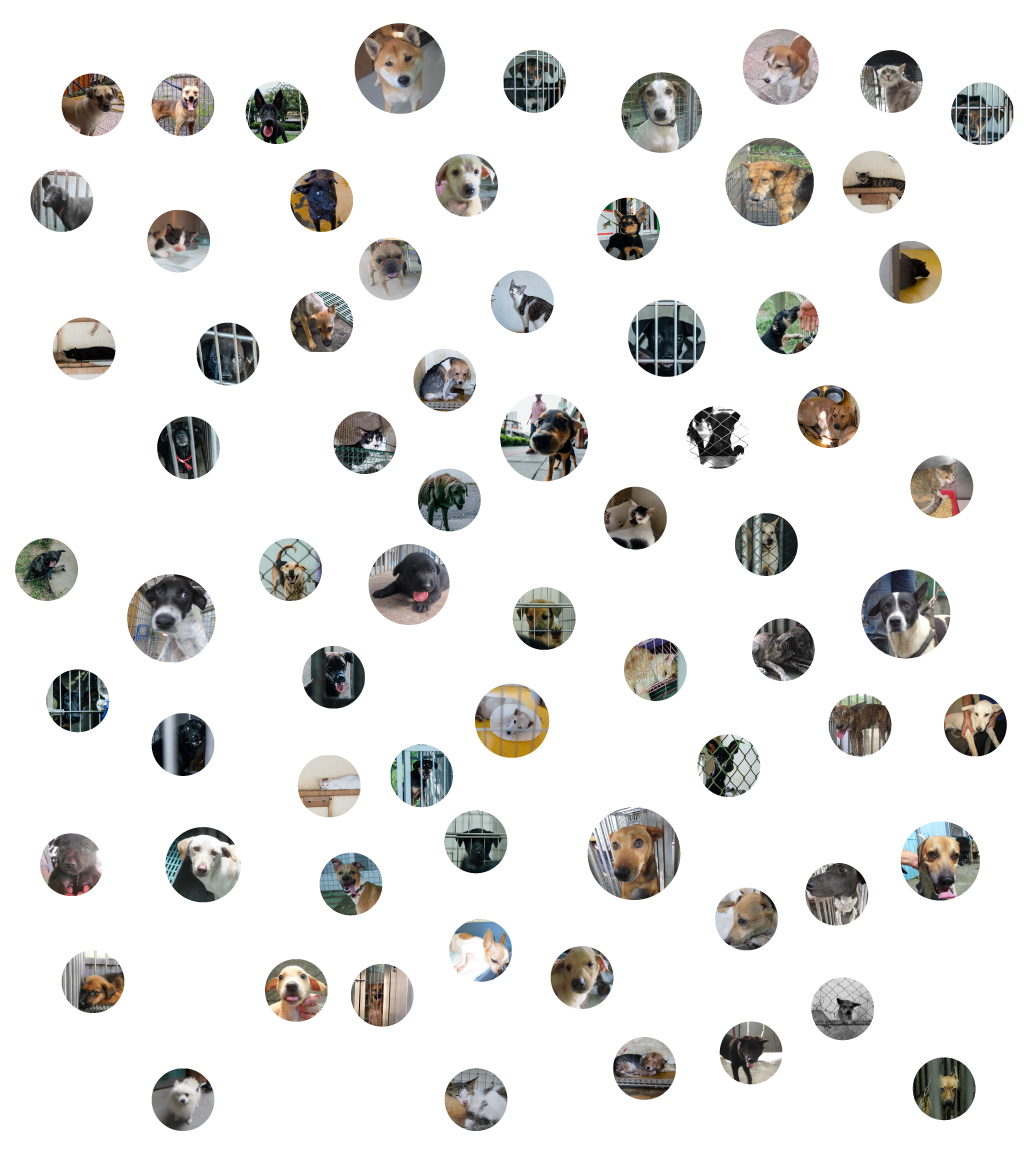
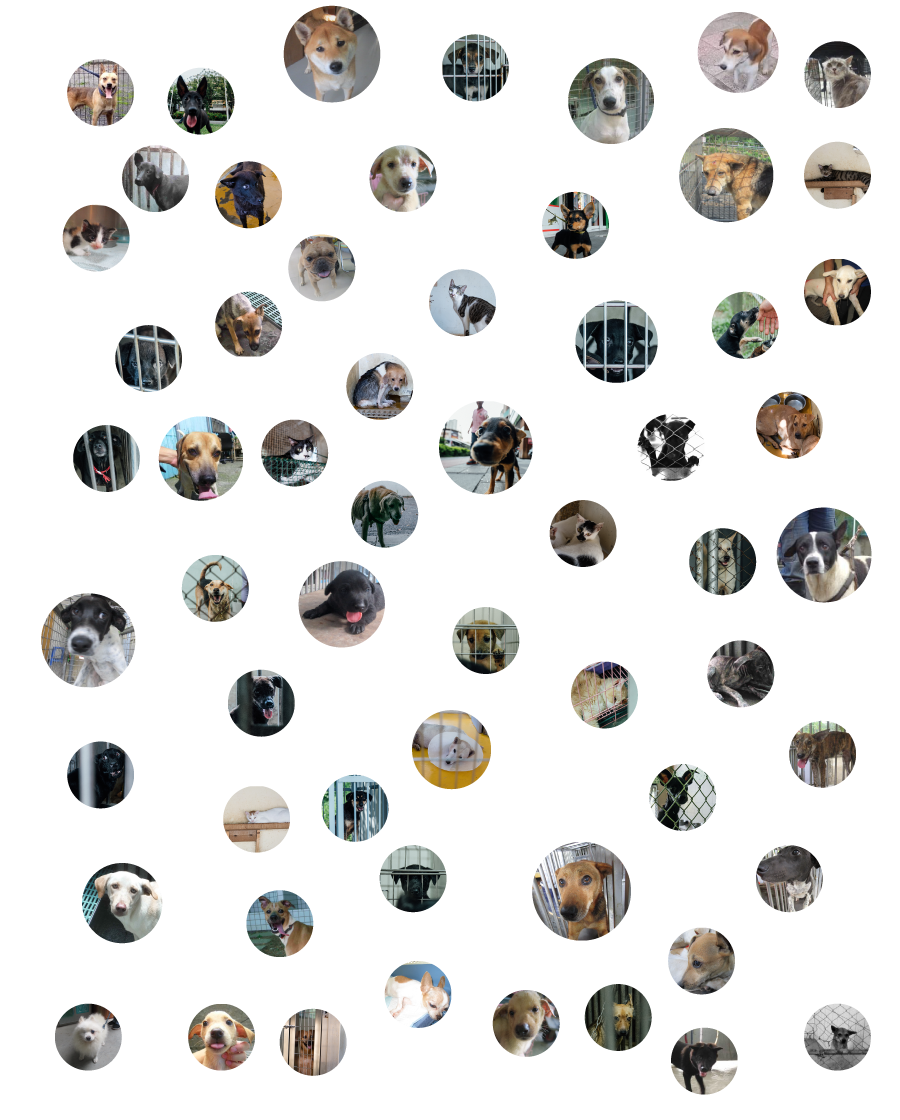
optimize mobile
optimize mobile

diff --git a/animal_protection/web_modules/layouts/Homepage/Opening/OpeningStardust.js b/animal_protection/web_modules/layouts/Homepage/Opening/OpeningStardust.js
@@ -1,4 +1,4 @@
-/* eslint-disable react/jsx-no-bind, react/jsx-no-literals, max-len, react/no-multi-comp, react/jsx-closing-bracket-location  */
+/* eslint-disable react/jsx-no-bind, react/jsx-no-literals, max-len, react/prop-types, react/no-multi-comp, react/jsx-closing-bracket-location  */
 
 import _ from "lodash"
 import React, { Component } from "react"
@@ -25,11 +25,13 @@ const MOBILE_WIDTH = 768
 
 const colors = [ styles["blue"], styles["pink"], styles["white"], styles["blue"], styles["white"] ]
 
-let DotsItems = () => {
+let DotsItems = (props) => {
+  const dotsCnt = props.isMobile ? 120 : 300
+  const cWidth = props.isMobile ? 600 : 800
   let dotsItems = []
-  for (let i=0; i<250; i++) {
+  for (let i=0; i<dotsCnt; i++) {
     dotsItems.push(<div key={ i } className={ classnames(styles["dot"], colors[i%4]) } 
-      style={ { top: (i*i*7%1100)/10+"%", left:(((i*i+7)*i%2100)-1100)/10+"%" } }
+      style={ { top: (i*i*7%1300)/10+"%", left:(((i*i+7)*i%cWidth)-cWidth/2)/10+"%" } }
                     ></div>)
   }
 
@@ -38,11 +40,13 @@ let DotsItems = () => {
   )
 }
 
-let OverlayDotsItems = () => {
+let OverlayDotsItems = (props) => {
+  const dotsCnt = props.isMobile ? 120 : 350
+  const cWidth = props.isMobile ? 800 : 1200
   let secondDotsItems = []
-  for (let i=0; i<250; i++) {
+  for (let i=0; i<dotsCnt; i++) {
     secondDotsItems.push(<div key={ i } className={ classnames(styles["dot"], colors[i%4]) } 
-      style={ { top: (i*i*3%1100)/10+"%", left:(((i+5)*i%2200)-1100)/10+"%" } }
+      style={ { top: (i*i*3%1200)/10+"%", left:(((i+5)*i%cWidth)-cWidth/2+10)/10+"%" } }
                     ></div>)
   }
 
@@ -122,20 +126,22 @@ export default class OpeningStardust extends Component {
     const rect = node.getBoundingClientRect()
     const { top, bottom } = rect
     const vpHeight = window.innerHeight
+    const frames = this.state.isMobile ? 12 : 120
 
     if (this.pItemHeight) {
-      if (bottom > vpHeight && bottom &&
+      if (bottom > vpHeight && bottom > 0 &&
                 top < (vpHeight / 2 - this.pItemHeight / 2)) {
         this.setState({ isIn: true, pinTopY: vpHeight / 2 })
       } 
       else if (bottom < vpHeight && bottom > 0 &&
                 top < (vpHeight / 2 - this.pItemHeight / 2)) {
-        const topY = Math.round(bottom - vpHeight / 2)
-        this.setState({ pinTopY: topY })
-        console.log("pinTopY: ", topY)
-        velocity(this.pinnedItem, {
-          top: topY,
-        }, 1)
+        const topY = Math.round((bottom - vpHeight / 2) * frames) / frames
+        if (this.state.pinTopY !== topY) {
+          this.setState({ pinTopY: topY })
+          velocity(this.pinnedItem, {
+            top: topY,
+          }, 1)
+        }
       } 
       else {
         this.setState({ isIn: false })
@@ -143,26 +149,30 @@ export default class OpeningStardust extends Component {
     }
 
     if (top < vpHeight / 2 && bottom > vpHeight / 2) {
-            // if user is viewing the content of the container
+      // if user is viewing the content of the container
+      const petTransY = this.state.isMobile ? 1600 : 2800
       let sRatio = Math.abs((top - vpHeight / 2) / (bottom - top))
-      sRatio = Math.round(sRatio * 100) / 100
-      this.setState({ scrollRatio: sRatio })
-      velocity(this.petImgs, {
-        translateY: "-" + Math.abs(sRatio * 3000) + "px",
-        translateZ: (300 - sRatio * 2000) + "px",
-        opacity: this._getRatio((1.6 - sRatio) * (1 - sRatio) * (1 - sRatio)),
-      }, 1)
-      velocity(this.dots, {
-        translateY: "-" + Math.abs(sRatio * 6200) + "px",
-        translateZ: (1600 - Math.abs(sRatio * 6100)) + "px",
-        opacity: this._getRatio(1.5 - sRatio),
-      }, 1)
-      velocity(this.secondDots, {
-        translateY: "-" + Math.abs(sRatio * 3800 - 600) + "px",
-        translateZ: (2300 - Math.abs(sRatio * 5700)) + "px",
-        opacity: this._getRatio(1.9 - sRatio),
-      }, 1)
-
+      sRatio = Math.round(sRatio * frames) / frames
+      if (this.state.scrollRatio !== sRatio) {
+        this.setState({ scrollRatio: sRatio })
+        velocity(this.petImgs, {
+          translateY: "-" + Math.abs(sRatio * petTransY) + "px",
+          translateZ: (300 - sRatio * 2200) + "px",
+          opacity: this._getRatio((1.6 - sRatio) * (1 - sRatio) * (1 - sRatio)),
+        }, 1)
+        if (this.state.isMobile) {
+          velocity(this.dots, {
+            translateY: "-" + Math.abs(sRatio * 7200) + "px",
+            translateZ: (1500 - Math.abs(sRatio * 6600)) + "px",
+            opacity: this._getRatio(1.5 - sRatio),
+          }, 1)
+        }
+        velocity(this.secondDots, {
+          translateY: "-" + Math.abs(sRatio * 4000 - 600) + "px",
+          translateZ: (2300 - Math.abs(sRatio * 5900)) + "px",
+          opacity: this._getRatio(1.9 - sRatio),
+        }, 1)
+      }
     } 
     else if (bottom < 0)
       this.setState({ scrollRatio: 1 })
@@ -175,39 +185,42 @@ export default class OpeningStardust extends Component {
 
     const centerClass = isIn ? commonStyles["fixedCenter"] : null
     const petBg = isMobile ? petMobile : petDesktop
-    console.log("rerender")
+    const fitDotsLayer = isMobile ? null : <div className={ styles["overlay-dots-container"] }
+      ref={ (ref) => this.dots = ref }
+            >
+              <DotsItems />
+            </div>
     
     return (
       <div className={ classnames(styles.container, 
         commonStyles["text-center"]) }
         ref={ (ref) => this.container = ref }
       >
-        <div className={ commonStyles["content-outer"] }>
-          <div 
-            className={ classnames(centerClass) }
-            ref={ (ref) => this.pinnedItem = ref }
-          >
-            <div className={ styles["dots-container"] }>
-              <div className={ styles["pet-container"] }
-                ref={ (ref) => this.petImgs = ref }
-              >
-                <img src={ petBg } />
-              </div>
-
-              <div className={ styles["overlay-dots-container"] }
-                ref={ (ref) => this.dots = ref }
-              >
-                <DotsItems />
-              </div>
-              <div className={ styles["overlay-dots-container"] }
-                ref={ (ref) => this.secondDots = ref }
-              >
-                <OverlayDotsItems />
-              </div>
+        
+        <div 
+          className={ classnames(centerClass, styles["outer"]) }
+          ref={ (ref) => this.pinnedItem = ref }
+        >
+          <div className={ styles["dots-container"] }>
+            <div className={ styles["pet-container"] }
+              ref={ (ref) => this.petImgs = ref }
+            >
+              <img src={ petBg } />
             </div>
-            <div className={ commonStyles["content-outer"] }></div>
+
+            { fitDotsLayer }
             
+            <div className={ styles["overlay-dots-container"] }
+              ref={ (ref) => this.secondDots = ref }
+            >
+              <OverlayDotsItems isMobile={ isMobile } />
+            </div>
           </div>
+          <div className={ commonStyles["content-outer"] }></div>
+          
+        </div>
+
+        <div className={ commonStyles["content-outer"] }>
 
           <div className={ commonStyles["content-outer"] }>
             <p className={ styles["des-text"] }>還有更多的狗狗與憂憂面對相似的命運</p>

diff --git a/animal_protection/web_modules/layouts/Homepage/Opening/OpeningStardust.scss b/animal_protection/web_modules/layouts/Homepage/Opening/OpeningStardust.scss
@@ -8,17 +8,20 @@
   overflow: hidden;
 }
 
+.outer {
+  width: 100%;
+}
+
 .pet-container {
   position: absolute;
-  width: 300%;
-  margin-left: -125%;
-  margin-top: 15vh;
-  transform: translateZ(300px);
+  width: 150%;
+  margin-left: -25%;
+  padding-top: 15vh;
 
-  @media (max-width: $width-sm) {
-    width: 200%;
-    margin-left: -50%;
-  }
+  // @media (max-width: $width-sm) {
+  //   width: 150%;
+  //   margin-left: -25%;
+  // }
   
   >img {
     width: 100%;
@@ -63,9 +66,14 @@
 
 .dot {
   border-radius: 50%;
-  width: 55px;
-  height: 55px;
+  width: 50px;
+  height: 50px;
   position: absolute;
+
+  @media (max-width: $width-xs) {
+    width: 30px;
+    height: 30px;
+  }
 }
 
 .blue {
@@ -73,12 +81,20 @@
 }
 .pink {
   background-color: rgba($pink, 0.7);
-  width: 55px;
-  height: 55px;
-}
-.white {
   width: 50px;
   height: 50px;
+  @media (max-width: $width-xs) {
+    width: 30px;
+    height: 30px;
+  }
+}
+.white {
+  width: 45px;
+  height: 45px;
+  @media (max-width: $width-xs) {
+    width: 25px;
+    height: 25px;
+  }
   background-color: rgba($light-gray, 0.5);
 }
 
